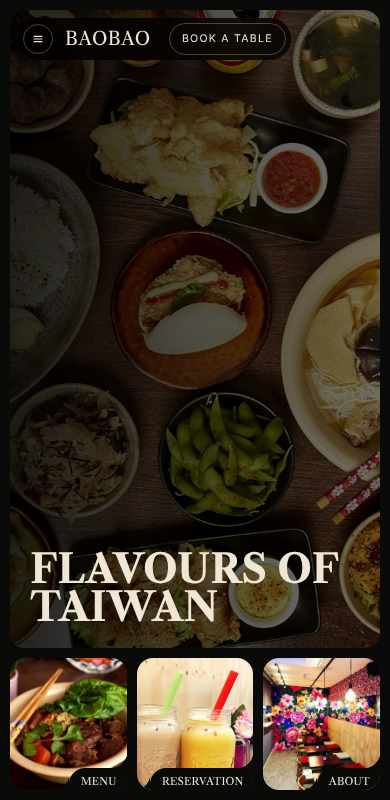
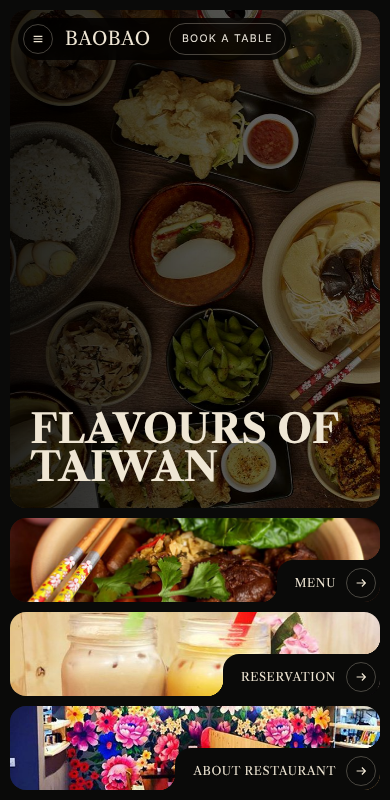
Mobile home: stack the three link cards under the hero
Claude-Session: https://claude.ai/code/session_01KGb4Pfav3iP9zNuhfXLWCv

diff --git a/assets/css/style.css b/assets/css/style.css
@@ -770,15 +770,12 @@ a.award:hover { border-color: var(--line-strong); }
   .site-header { top: calc(var(--gap) + 8px); left: calc(var(--gap) + 8px); right: calc(var(--gap) + 8px); }
   .nav-link:not(.nav-link--cta) { display: none; }
   .site-header .socials { display: none; }
-  /* first screen = hero + a row of three small cards, like desktop */
+  /* first screen = hero + three stacked link cards */
   .home { grid-template-rows: minmax(0, 1fr) auto; height: calc(100svh - var(--gap) * 2); min-height: 460px; }
   .hero .photo__title { top: auto; bottom: 22px; transform: none; }
-  .home-cards .photo { height: 132px; }
-  /* keep the notch tab, just the label (no arrow) so it fits a third-width card */
-  .home-cards .notch { padding: 7px 10px 2px 12px; }
-  .home-cards .notch .icon-btn { display: none; }
-  .home-cards .card-link__label { font-size: .66rem; line-height: 1.25; letter-spacing: .02em; }
-  .home-cards .card-link__extra { display: none; }
+  .home-cards { grid-template-columns: 1fr; }
+  .home-cards .photo { height: 84px; }
+  .home-cards .card-link__label { font-size: .74rem; }
   .hero .notch { display: none; }
   .about-grid, .contact-side { grid-template-columns: 1fr; grid-template-rows: none; }
   .awards { grid-template-columns: 1fr; }

diff --git a/index.html b/index.html
@@ -10,7 +10,7 @@
   <link rel="preconnect" href="https://fonts.googleapis.com">
   <link rel="preconnect" href="https://fonts.gstatic.com" crossorigin>
   <link href="https://fonts.googleapis.com/css2?family=Inter:wght@400;500&family=Libre+Caslon+Text:wght@400;700&display=swap" rel="stylesheet">
-  <link rel="stylesheet" href="assets/css/style.css?v=8">
+  <link rel="stylesheet" href="assets/css/style.css?v=9">
 </head>
 <body>
   <div class="page" style="position:relative">
@@ -41,7 +41,7 @@
       </a>
       <a class="photo card-link reveal reveal--3" href="about.html">
         <img src="assets/img/card-interior.jpg" alt="">
-        <span class="notch"><span class="card-link__label">About<span class="card-link__extra"> restaurant</span></span><span class="icon-btn"><svg viewBox="0 0 16 16" fill="none" stroke="currentColor" stroke-width="1.4"><path d="M3 8h10M9 4l4 4-4 4"/></svg></span></span>
+        <span class="notch"><span class="card-link__label">About restaurant</span><span class="icon-btn"><svg viewBox="0 0 16 16" fill="none" stroke="currentColor" stroke-width="1.4"><path d="M3 8h10M9 4l4 4-4 4"/></svg></span></span>
       </a>
     </nav>
   </main>

diff --git a/about.html b/about.html
@@ -10,7 +10,7 @@
   <link rel="preconnect" href="https://fonts.googleapis.com">
   <link rel="preconnect" href="https://fonts.gstatic.com" crossorigin>
   <link href="https://fonts.googleapis.com/css2?family=Inter:wght@400;500&family=Libre+Caslon+Text:wght@400;700&display=swap" rel="stylesheet">
-  <link rel="stylesheet" href="assets/css/style.css?v=8">
+  <link rel="stylesheet" href="assets/css/style.css?v=9">
 </head>
 <body>
   <div class="page" style="position:relative">

diff --git a/contact.html b/contact.html
@@ -10,7 +10,7 @@
   <link rel="preconnect" href="https://fonts.googleapis.com">
   <link rel="preconnect" href="https://fonts.gstatic.com" crossorigin>
   <link href="https://fonts.googleapis.com/css2?family=Inter:wght@400;500&family=Libre+Caslon+Text:wght@400;700&display=swap" rel="stylesheet">
-  <link rel="stylesheet" href="assets/css/style.css?v=8">
+  <link rel="stylesheet" href="assets/css/style.css?v=9">
 </head>
 <body>
   <div class="page" style="position:relative">

diff --git a/menu.html b/menu.html
@@ -10,7 +10,7 @@
   <link rel="preconnect" href="https://fonts.googleapis.com">
   <link rel="preconnect" href="https://fonts.gstatic.com" crossorigin>
   <link href="https://fonts.googleapis.com/css2?family=Inter:wght@400;500&family=Libre+Caslon+Text:wght@400;700&display=swap" rel="stylesheet">
-  <link rel="stylesheet" href="assets/css/style.css?v=8">
+  <link rel="stylesheet" href="assets/css/style.css?v=9">
 </head>
 <body>
   <div class="page" style="position:relative">

diff --git a/reservation.html b/reservation.html
@@ -10,7 +10,7 @@
   <link rel="preconnect" href="https://fonts.googleapis.com">
   <link rel="preconnect" href="https://fonts.gstatic.com" crossorigin>
   <link href="https://fonts.googleapis.com/css2?family=Inter:wght@400;500&family=Libre+Caslon+Text:wght@400;700&display=swap" rel="stylesheet">
-  <link rel="stylesheet" href="assets/css/style.css?v=8">
+  <link rel="stylesheet" href="assets/css/style.css?v=9">
 </head>
 <body>
   <div class="page" style="position:relative">
